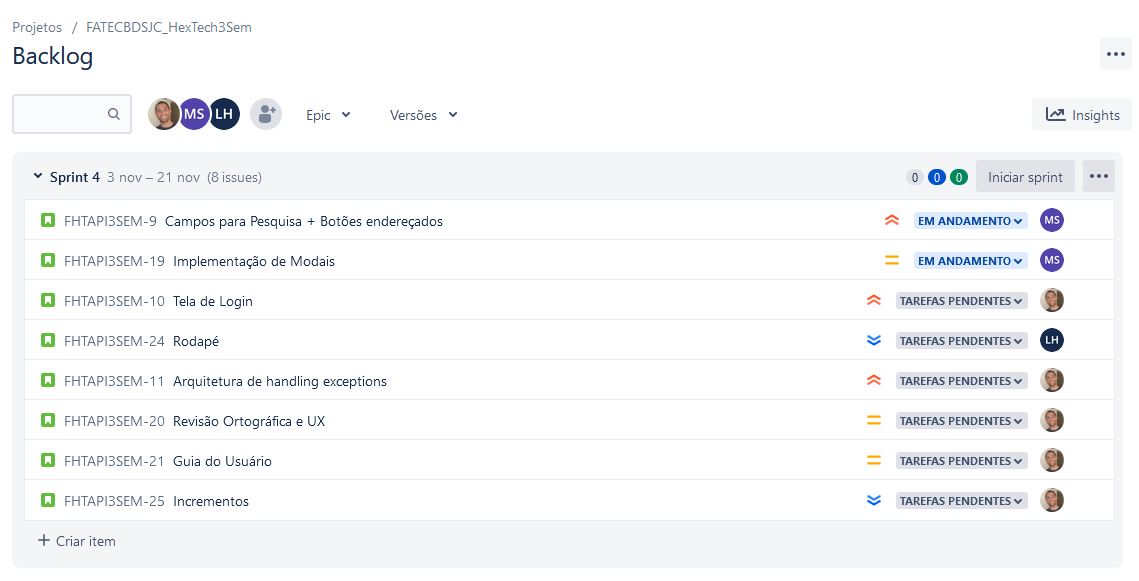
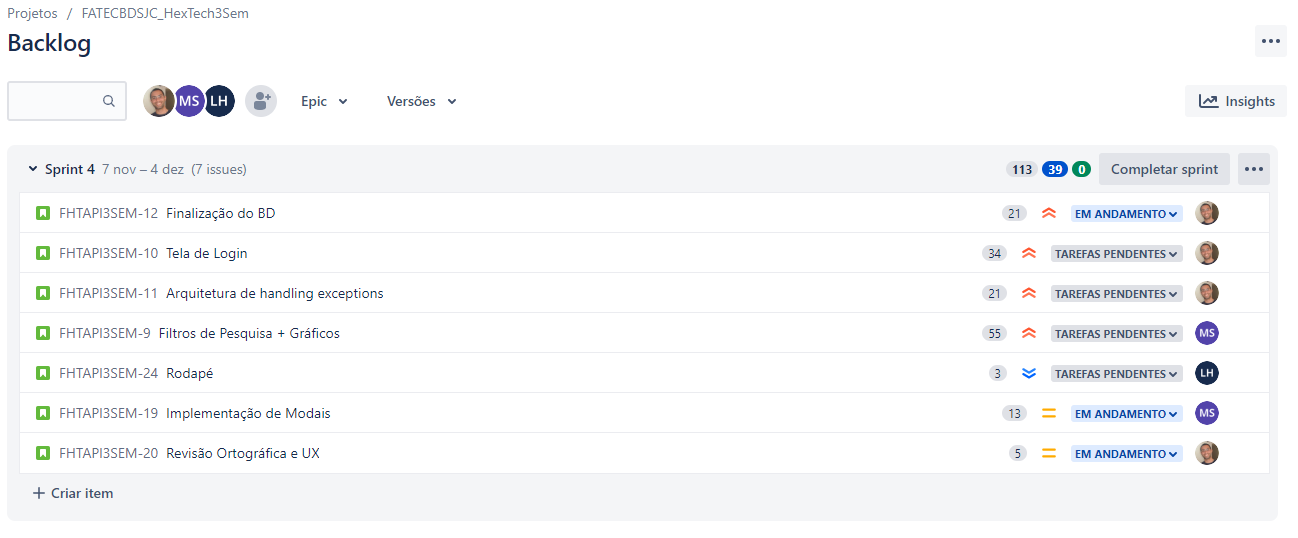
Atualização Git e Merge Sprint 3 com a Main

diff --git a/README.md b/README.md
@@ -30,7 +30,7 @@ Nosso foco é o desenvolvimento de software, banco de dados e inovações tecnol
 | Scrum Master | PO | Desenvolvedores | 
 | ------------------- | ------------------- |  ------------------- | 
 | [William David Antoniazzi](mailto:william.antoniazzi@fatec.sp.gov.br "William David Antoniazzi") <a href="https://www.linkedin.com/in/williamantoniazzi/" target="_blank"><img src="https://cdn-icons-png.flaticon.com/512/174/174857.png" width="15" /></a> | [Luiz Fernando Habaeb](mailto:luiz.habaeb@fatec.sp.gov.br "Luiz Fernando Habaeb") <a href="https://www.linkedin.com/in/luizhabaeb/" target="_blank"><img src="https://cdn-icons-png.flaticon.com/512/174/174857.png" width="15" /></a> | [Michel Rubens Silva](mailto:michel.silva33@fatec.sp.gov.br "Michel Rubens Silva") <a href="https://www.linkedin.com/in/michelrubens/" target="_blank"><img src="https://cdn-icons-png.flaticon.com/512/174/174857.png" width="15" /></a> | 
-| | | [Jonathan Willian](mailto:jonathan.alves5@fatec.sp.gov.br "Jonathan Willian") <a href="https://www.linkedin.com/in/jonathan-alves-18069118a/" target="_blank"><img src="https://cdn-icons-png.flaticon.com/512/174/174857.png" width="15" /></a> | 
+| | | [Jonathan Willian](mailto:jonathan.alves5@fatec.sp.gov.br "Jonathan Willian") <a href="https://www.linkedin.com/in/jonathan-alves-18069118a/" target="_blank"><img src="https://cdn-icons-png.flaticon.com/512/174/174857.png" width="15" /></a> (Desligado) | 
 | | | [Caio Sendreto](mailto:caio.sendreto@fatec.sp.gov.br "Caio Sendreto") <a href="https://www.linkedin.com/in/caio-sendreto-0736311a2/" target="_blank"><img src="https://cdn-icons-png.flaticon.com/512/174/174857.png" width="15" /></a> (Desligado) |
 | | | [Ruan Macedo](mailto:ruan.macedo@fatec.sp.gov.br "Ruan Macedo") <a href="https://www.linkedin.com/in/ruan-cesar-mac/" target="_blank"><img src="https://cdn-icons-png.flaticon.com/512/174/174857.png" width="15" /></a> (Desligado)|
 <br />

diff --git a/readme_pages/sprint04_atividades_entrega.md b/readme_pages/sprint04_atividades_entrega.md
@@ -1,3 +1,52 @@
-sprint4 atividades
+# Crongrama, Backlog do produto e das sprints - SPRINT 03
+Nestas páginas divididas por Sprint, poderão ser acompanhadas a evolução da aplicação em uma visão de tarefas realizadas pelo grupo.
+<br />
 
+
+<h2>Índice</h2>
+
+- [Backlog do produto em Tasks no Jira](#backlog-do-produto-tasks-no-jira)
+- [Implementação do Banco de dados](#implementacao-do-banco-de-dados)
+    - [Modelo conceitual](#modelo-conceitual)
+    - [Modelo lógico](#modelo-logico)
+    - [Modelo físico - Script SQL](#modelo-fisico-script-sql)
+    - [Dicionário de dados](#dicionario-dados)
+<br />
+
+<h2>Backlog do produto, Tasks no Jira</h2>
+
+![taskssprint03](../readme_docs/tasks_sprint04.png)
+<br />
+
+![tasksjira03](../readme_docs/Sprint4_Jira.png)
+<br />
+
+
+<h2>Modelo conceitual e lógico do Banco de Dados</h2>
+
+Modelo conceitual e lógico criado do banco de dados para apresentação da sprint 03.
+
+
+<h3>Modelo conceitual:</h3>
+
+![ModeloconceitualBDSP1](../documents/BRModel_ConceitualIACITI.png)
+
+
+<h3>Modelo lógico:</h3>
+
+![ModeloLogicoBDSP1](../documents/IACIT_PostgreSQL-050922_COMPLETO.png)
+
+
+<h3>Modelo físico - Script SQL:</h3>
+Modelo físico do banco finalizado, script compondo a criação e ligação das tabelas para PostgreSQL
+
+[Script PostgreSQL, Base de dados](../documents/IACIT_PostgreSQL_Physical_Export_create.sql)
+
+
+<h3>Dicionário de dados:</h3>
+Dicionário em PDF com informações sobre a estrutura do banco de dados.
+
+[Dicionário de dados completo em PDF](../documents/IACIT_PostgreSQL.pdf)
+
+<br />
 https://fatecbdsjc.atlassian.net/jira/software/projects/FHTAPI3SEM/boards/1

diff --git a/readme_pages/sprint02_backlog_burndown.md b/readme_pages/sprint02_backlog_burndown.md
@@ -37,3 +37,9 @@ Proposta de funcionalidades a serem entregues ao cliente para a sprint 02
 Gráfico com a evolução do tempo de execução da sprint
 
 ![Sprint02](../readme_docs/BurndownSP2.png "Burndown Sprint02")
+<br />
+
+<br />
+<br />
+OBS: Devido a complicações internas não houve entrega desta sprint.
+Algumas tarefas foram executadas e serão avalidas na terceira sprint.

diff --git a/readme_pages/sprint03_backlog_burndown.md b/readme_pages/sprint03_backlog_burndown.md
@@ -36,4 +36,5 @@ Proposta de funcionalidades a serem entregues ao cliente para a sprint 03
 <h2>Burndown Sprint03</h2>
 Gráfico com a evolução do tempo de execução da sprint
 
-![Sprint03](https://github.com/GroupHextech/HEXTECH-API3sem/blob/sprint03_Feature/readme_pages/Burndown%20SP3.png)
+![BurnSprint3](../readme_docs/BurndownSP3.png)
+<br />

diff --git a/readme_pages/sprint04_backlog_burndown.md b/readme_pages/sprint04_backlog_burndown.md
@@ -29,7 +29,7 @@ Definição dos entregaveis ao cliente de acordo com as datas e andamento das at
 **Backlog do produto**
 Proposta de funcionalidades a serem entregues ao cliente para a sprint 04
 
-![backlogSprint4]()
+![backlogSprint4](../readme_docs/BacklogSprint4.png)
 <br />
 
 
